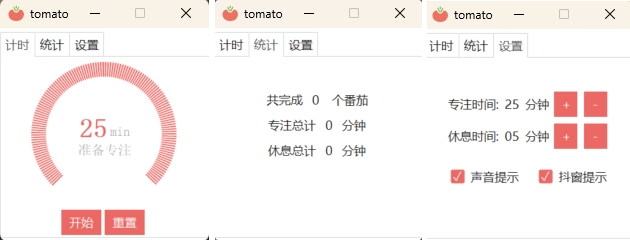
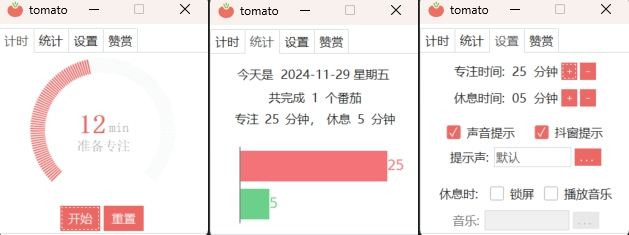
丰富统计界面

diff --git a/main.py b/main.py
@@ -6,10 +6,13 @@ import os
 import time
 import threading
 import pygame
+import matplotlib.pyplot as plt
+from matplotlib.backends.backend_tkagg import FigureCanvasTkAgg
 from utils import (TomatoMeter, break_beep, focus_beep, warning_sound,
                    get_icon_img, get_like_img)
 
-min2sec = 2
+min2sec = 60
+version = 'v1.0.0'
 
 class tomatoClock:
     def __init__(self, master):
@@ -47,12 +50,17 @@ class tomatoClock:
         self.music_path.set("")
         self.custom_music = None
         self.music_channel = None
-
-        # 按钮防抖
-        self.last_click_time = 0
+        self.today = time.strftime("%Y-%m-%d %A", time.localtime())
+        self.focus_color = '#F47378'
+        self.break_color = '#6BD089'
 
         # 加载配置
         self.load_config()
+        # 加载统计数据
+        self.load_summary()
+
+        # 按钮防抖
+        self.last_click_time = 0
 
         # 选项卡容器
         self.notebook = ttk.Notebook(self.master)
@@ -94,9 +102,9 @@ class tomatoClock:
 
         # 日期
         date_frame = ttk.Frame(self.tab2)
-        date_frame.pack(pady=(5, 0))
+        date_frame.pack(pady=(15, 0))
         tk.Label(date_frame, text="今天是").pack(side=tk.LEFT)
-        tk.Label(date_frame, text=time.strftime("%Y-%m-%d %A", time.localtime())).pack(side=tk.LEFT, padx=5)
+        tk.Label(date_frame, text=self.today).pack(side=tk.LEFT, padx=5)
 
         # 总番茄统计
         tomato_count_frame = ttk.Frame(self.tab2)
@@ -118,6 +126,25 @@ class tomatoClock:
         self.total_break_time_label = tk.Label(total_time_frame, text=f"{self.total_break_time}")
         self.total_break_time_label.pack(side=tk.LEFT, padx=2)
         tk.Label(total_time_frame, text=f"分钟").pack(side=tk.LEFT, padx=2)
+
+        # 绘制番茄时间统计图
+        self.tomato_chart_frame = ttk.Frame(self.tab2)
+        self.tomato_chart_frame.pack(pady=(10, 0))
+        self.fig = plt.Figure(figsize=(2, 1), dpi=100)
+        self.ax = self.fig.add_subplot(111)
+        self.focus_bar = self.ax.barh([1], [self.total_focus_time], color=self.focus_color)
+        self.break_bar = self.ax.barh([0], [self.total_break_time], color=self.break_color)
+        self.ax.bar_label(self.focus_bar, label_type='edge', color=self.focus_color)
+        self.ax.bar_label(self.break_bar, label_type='edge', color=self.break_color)
+        self.ax.set_xticks([])
+        self.ax.set_yticks([])
+        self.ax.spines['top'].set_color('none')
+        self.ax.spines['right'].set_color('none')
+        self.ax.spines['bottom'].set_color('none')
+        self.ax.spines['left'].set_color('gray')
+        self.chart_canvas = FigureCanvasTkAgg(self.fig, master=self.tomato_chart_frame)
+        self.chart_canvas.get_tk_widget().pack(side=tk.LEFT, fill=tk.BOTH, expand=True)
+        self.chart_canvas.draw()
 
         # tab3
         self.tab3 = ttk.Frame(self.notebook)
@@ -209,11 +236,12 @@ class tomatoClock:
         self.tab4 = ttk.Frame(self.notebook)
         self.notebook.add(self.tab4, text="赞赏")
         self.like_img = ImageTk.PhotoImage(data=get_like_img())
-        ttk.Label(self.tab4, image=self.like_img).pack(pady=(10, 0))
+        ttk.Label(self.tab4, image=self.like_img).pack(pady=(5, 0))
+        tk.Label(self.tab4, text=version, font=("Arial", 8), state=tk.DISABLED).pack(pady=(5, 0))
 
     def load_config(self):
         try:
-            with open(self.config_path, "r") as f:
+            with open(self.config_path, "r", encoding="utf-8") as f:
                 lines = f.readlines()
                 self.focus_time = int(lines[0].strip())
                 self.break_time = int(lines[1].strip())
@@ -243,7 +271,7 @@ class tomatoClock:
         if not os.path.exists(self.music_path.get()):
             self.music_path.set("")
             self.custom_music = None
-        with open(self.config_path, "w") as f:
+        with open(self.config_path, "w", encoding="utf-8") as f:
             f.write(f"{self.focus_time}\n")
             f.write(f"{self.break_time}\n")
             f.write(f"{self.beep_flag.get()}\n")
@@ -252,6 +280,51 @@ class tomatoClock:
             f.write(f"{self.lock_screen_flag.get()}\n")
             f.write(f"{self.play_music_flag.get()}\n")
             f.write(f"{self.music_path.get()}\n")
+
+    def load_summary(self):
+        try:
+            with open("summary.txt", "r", encoding="utf-8") as f:
+                lines = f.readlines()
+                today = lines[0].strip()
+            if today == self.today:
+                self.tomato_count = int(lines[1].strip())
+                self.total_focus_time = int(lines[2].strip())
+                self.total_break_time = int(lines[3].strip())
+            else:
+                with open("summary.txt", "w", encoding="utf-8") as f:
+                    f.write(f"{self.today}\n")
+                    f.write(f"0\n")
+                    f.write(f"0\n")
+                    f.write(f"0\n")
+        except:
+            pass
+
+    def save_summary(self):
+        today = time.strftime("%Y-%m-%d %A", time.localtime())
+        if not today == self.today:
+            self.today = today
+            self.tomato_count = 0
+            self.total_focus_time = 0
+            self.total_break_time = 0
+        with open("summary.txt", "w", encoding="utf-8") as f:
+            f.write(f"{self.today}\n")
+            f.write(f"{self.tomato_count}\n")
+            f.write(f"{self.total_focus_time}\n")
+            f.write(f"{self.total_break_time}\n")
+
+    def update_summary_chart(self):
+        self.ax.clear()
+        self.focus_bar = self.ax.barh([1], [self.total_focus_time], color=self.focus_color)
+        self.break_bar = self.ax.barh([0], [self.total_break_time], color=self.break_color)
+        self.ax.bar_label(self.focus_bar, label_type='edge', color=self.focus_color)
+        self.ax.bar_label(self.break_bar, label_type='edge', color=self.break_color)
+        self.ax.set_xticks([])
+        self.ax.set_yticks([])
+        self.ax.spines['top'].set_color('none')
+        self.ax.spines['right'].set_color('none')
+        self.ax.spines['bottom'].set_color('none')
+        self.ax.spines['left'].set_color('gray')
+        self.chart_canvas.draw()
 
     def set_tab3_disabled(self):
         for frame_child in self.tab3.winfo_children():
@@ -282,6 +355,7 @@ class tomatoClock:
         self.set_tab3_enabled()
 
     def switch_to_start(self):
+        self.today = time.strftime("%Y-%m-%d %A", time.localtime())
         self.is_running = True
         self.start_pause_button.config(text="暂停")
         if self.state == "focus":
@@ -348,6 +422,8 @@ class tomatoClock:
                 self.shake_window()
                 self.total_focus_time += self.focus_time
                 self.total_focus_time_label.config(text=f"{self.total_focus_time}")
+                self.save_summary()
+                self.update_summary_chart()
                 self.lock_screen()
         elif self.is_running and self.state == "break":
             self.passing_time_sec += 1
@@ -364,6 +440,8 @@ class tomatoClock:
                 self.total_tomato_label.config(text=f"{self.tomato_count}")
                 self.total_break_time += self.break_time
                 self.total_break_time_label.config(text=f"{self.total_break_time}")
+                self.save_summary()
+                self.update_summary_chart()
 
     # 按钮防抖
     def can_click(self):
